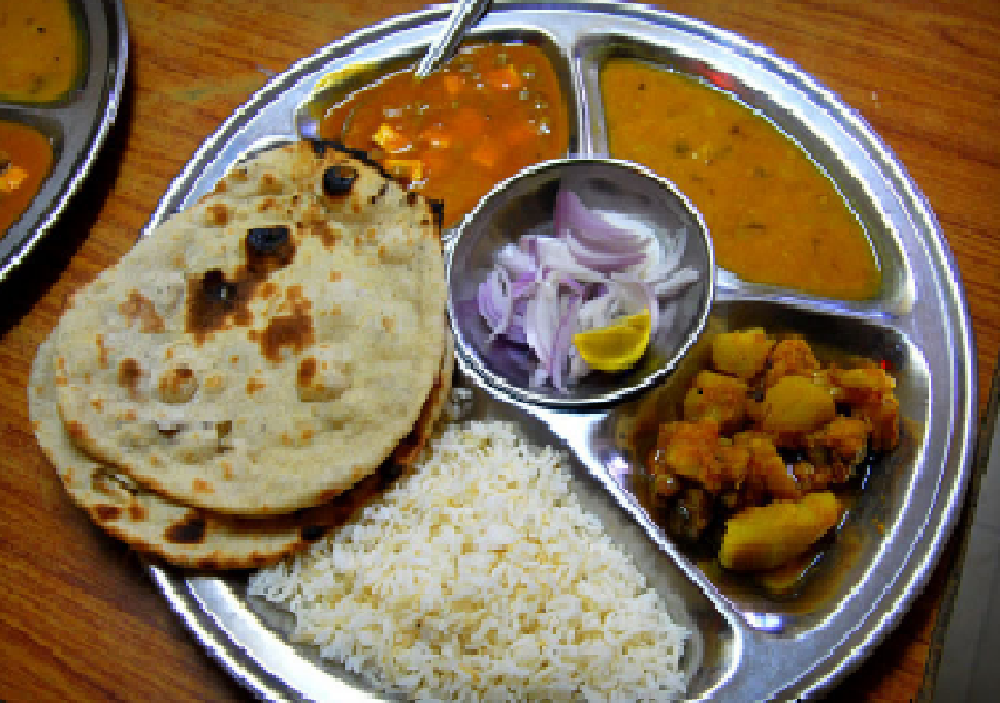
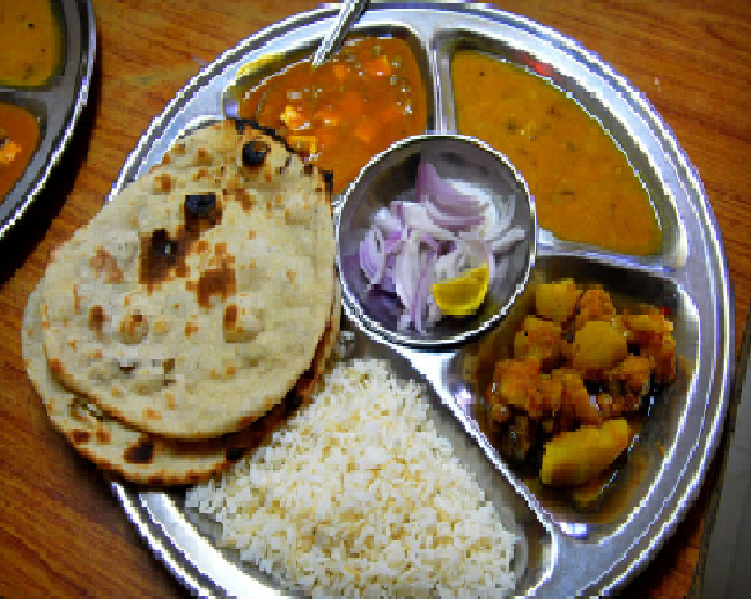
menu

diff --git a/food.html b/food.html
@@ -92,7 +92,7 @@
   <br><br>
   <div class="small-img-group">
     <div class="small-img-col">
-      <img src="images/food2.png"  width="100%" class="small-img" alt="">
+      <img src="images/x.jpg"  width="100%" class="small-img" alt="">
     </div>
     <div class="small-img-col">
       <img src="images/food7.png"  width="100%" class="small-img" alt="">
@@ -109,13 +109,14 @@
       <div class="catalog-text">
   <h2 class="py-1">Star Light Tiffin Center</h2> <hr>
   <h6>This tiffin center has a good surrounding with cleanliness</h6>
-  <h3 class="py-3">Veg Tiffin Box</h3>
+  <h3 class="py-3">Veg Thali</h3>
   <ul>
     <li> <h5>4 Chapati</h5></li>
      <li> <h5>2 Sabji </h5></li>
       <li><h5>Daal</h5></li>
      <li><h5>Rice </h5></li>
-     <li><h5>Salad </h5></li>
+     <li><h5>Rayeta </h5></li>
+     <li><h5>Gulab Jamun</h5></li>
   </ul>
  
     <div class="class py-3">
@@ -143,10 +144,10 @@
     <img src="images/rp.jpg"  width="100%" class="small-img" alt="">
   </div>
   <div class="small-img-col">
-    <img src="images/img5.jpg"  width="100%" class="small-img" alt="">
+    <img src="images/pakode.jpg"  width="100%" class="small-img" alt="">
   </div> 
   <div class="small-img-col">
-    <img src="images/dining.jpeg"  width="100%" class="small-img" alt="">
+    <img src="images/samosa.jpg"  width="100%" class="small-img" alt="">
   </div>
   <div class="small-img-col">
     <img src="images/wash.jpg" width="100%" class="small-img" alt="">
